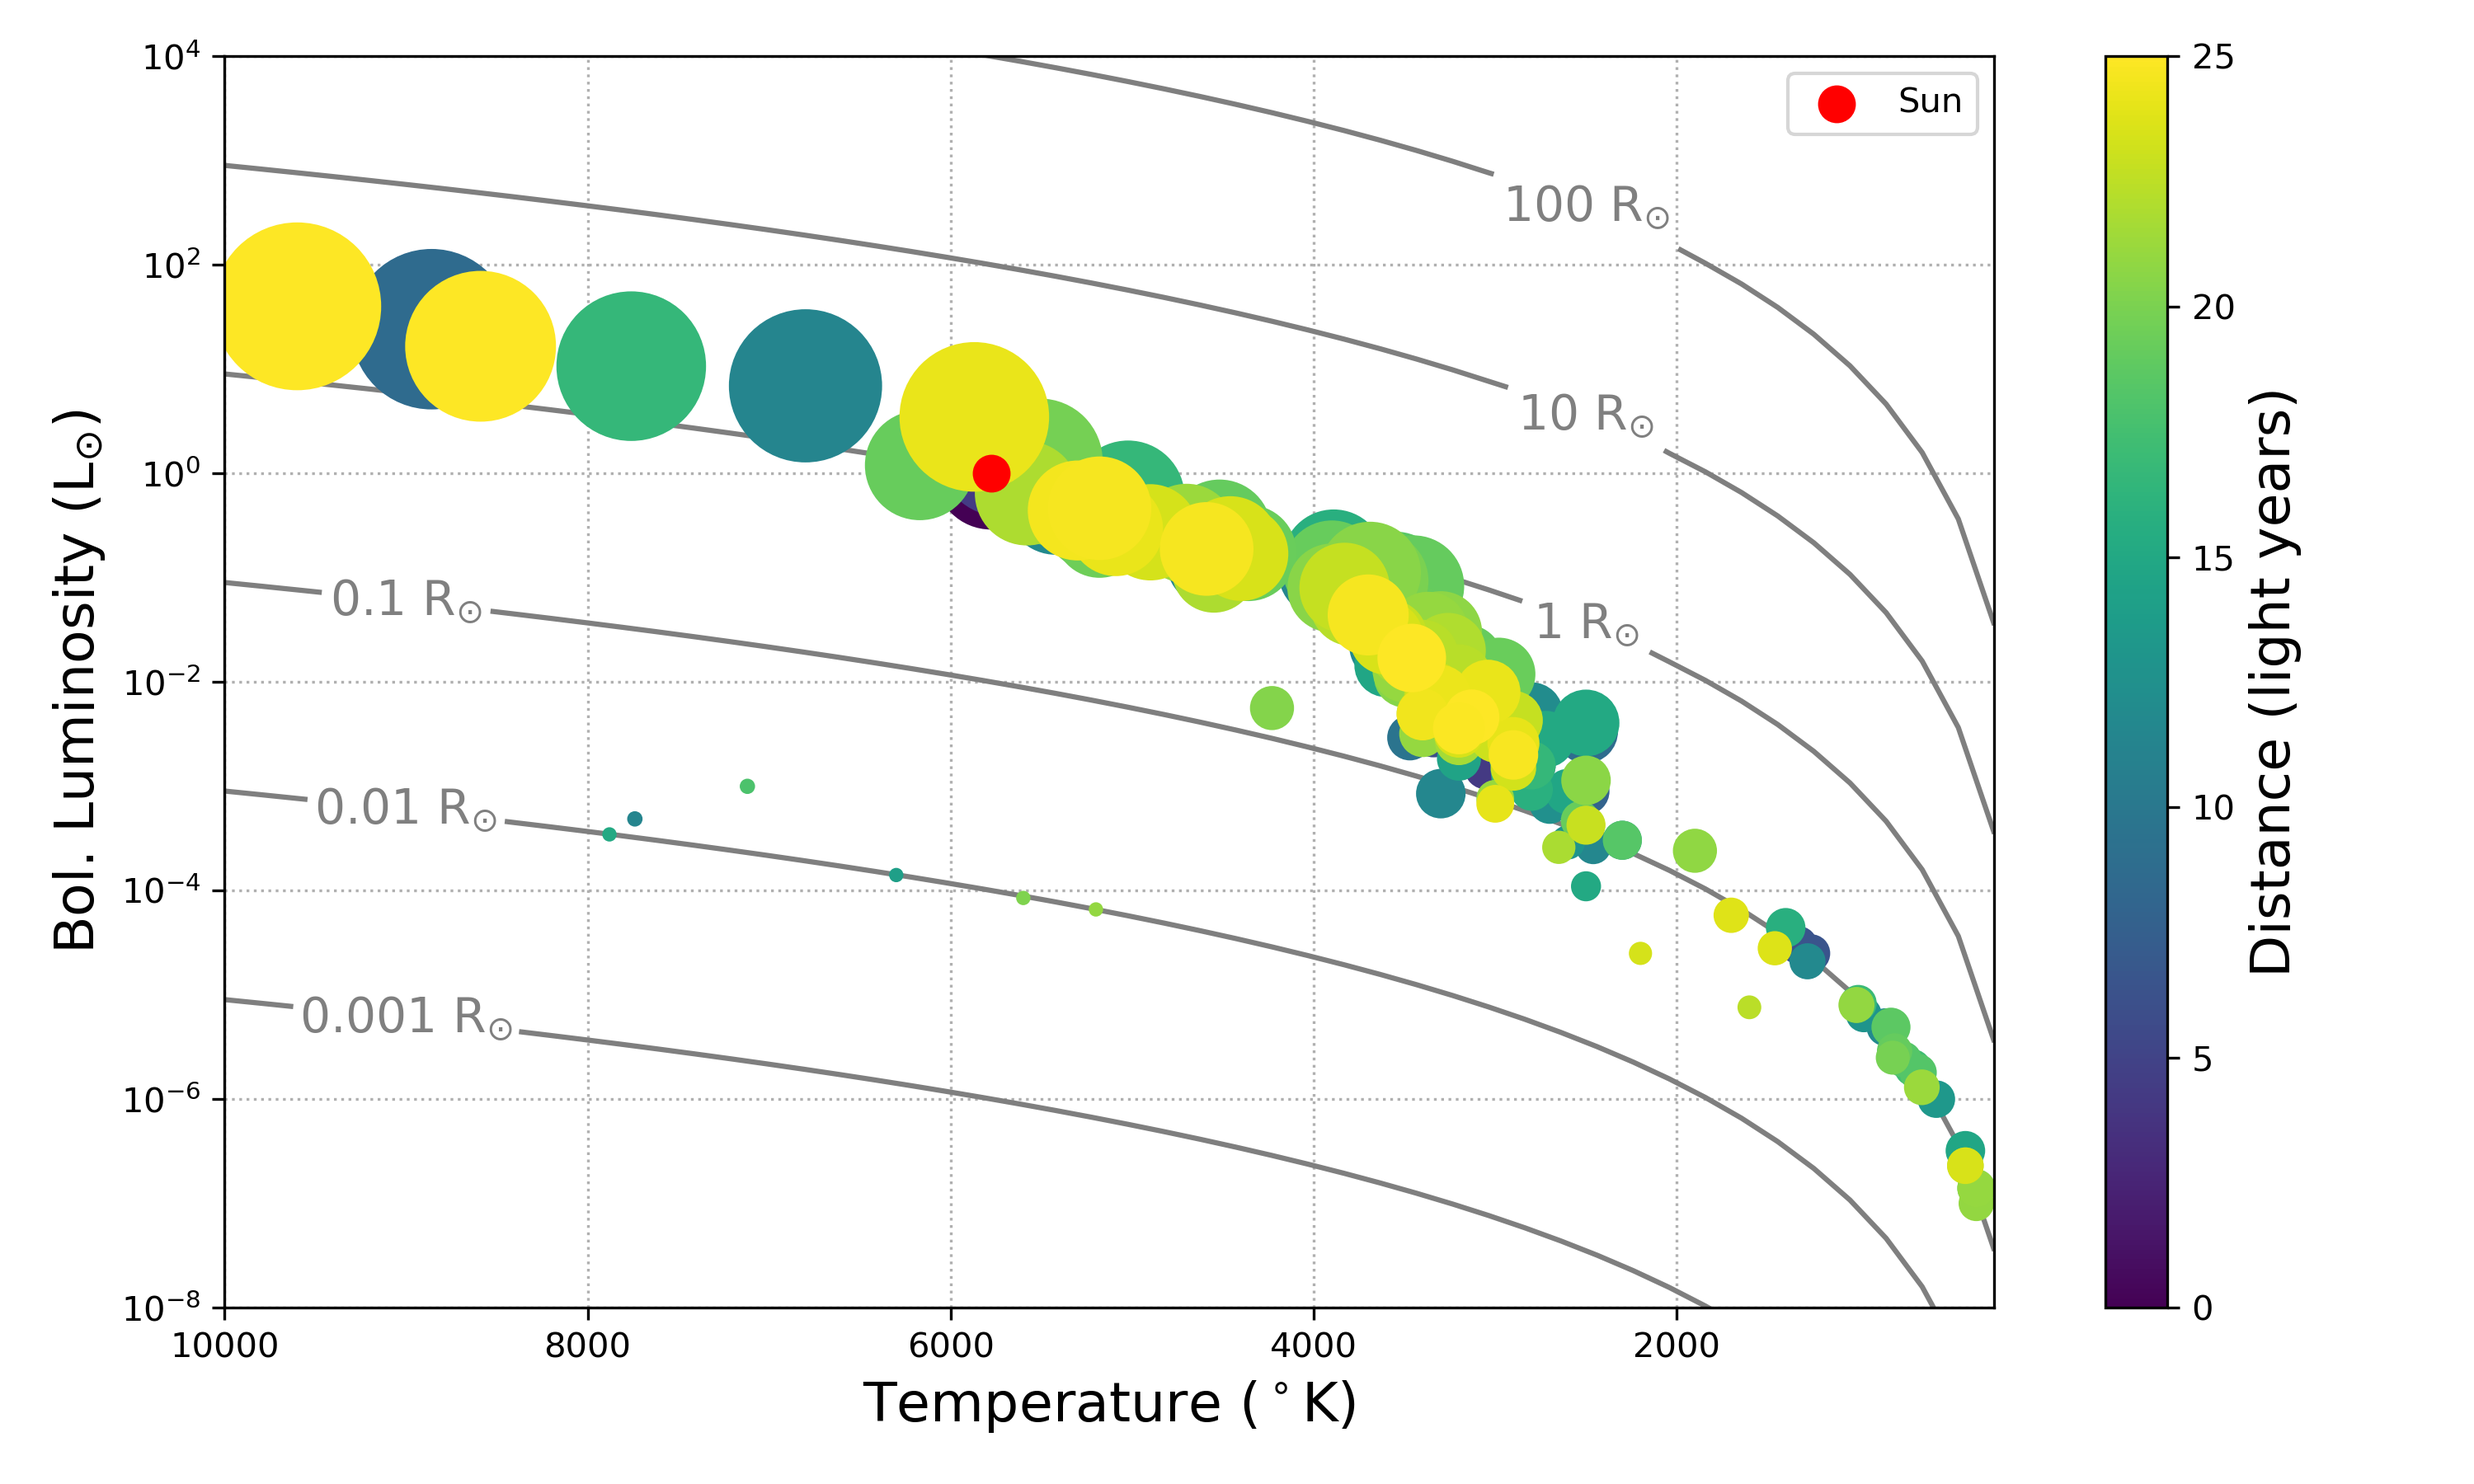
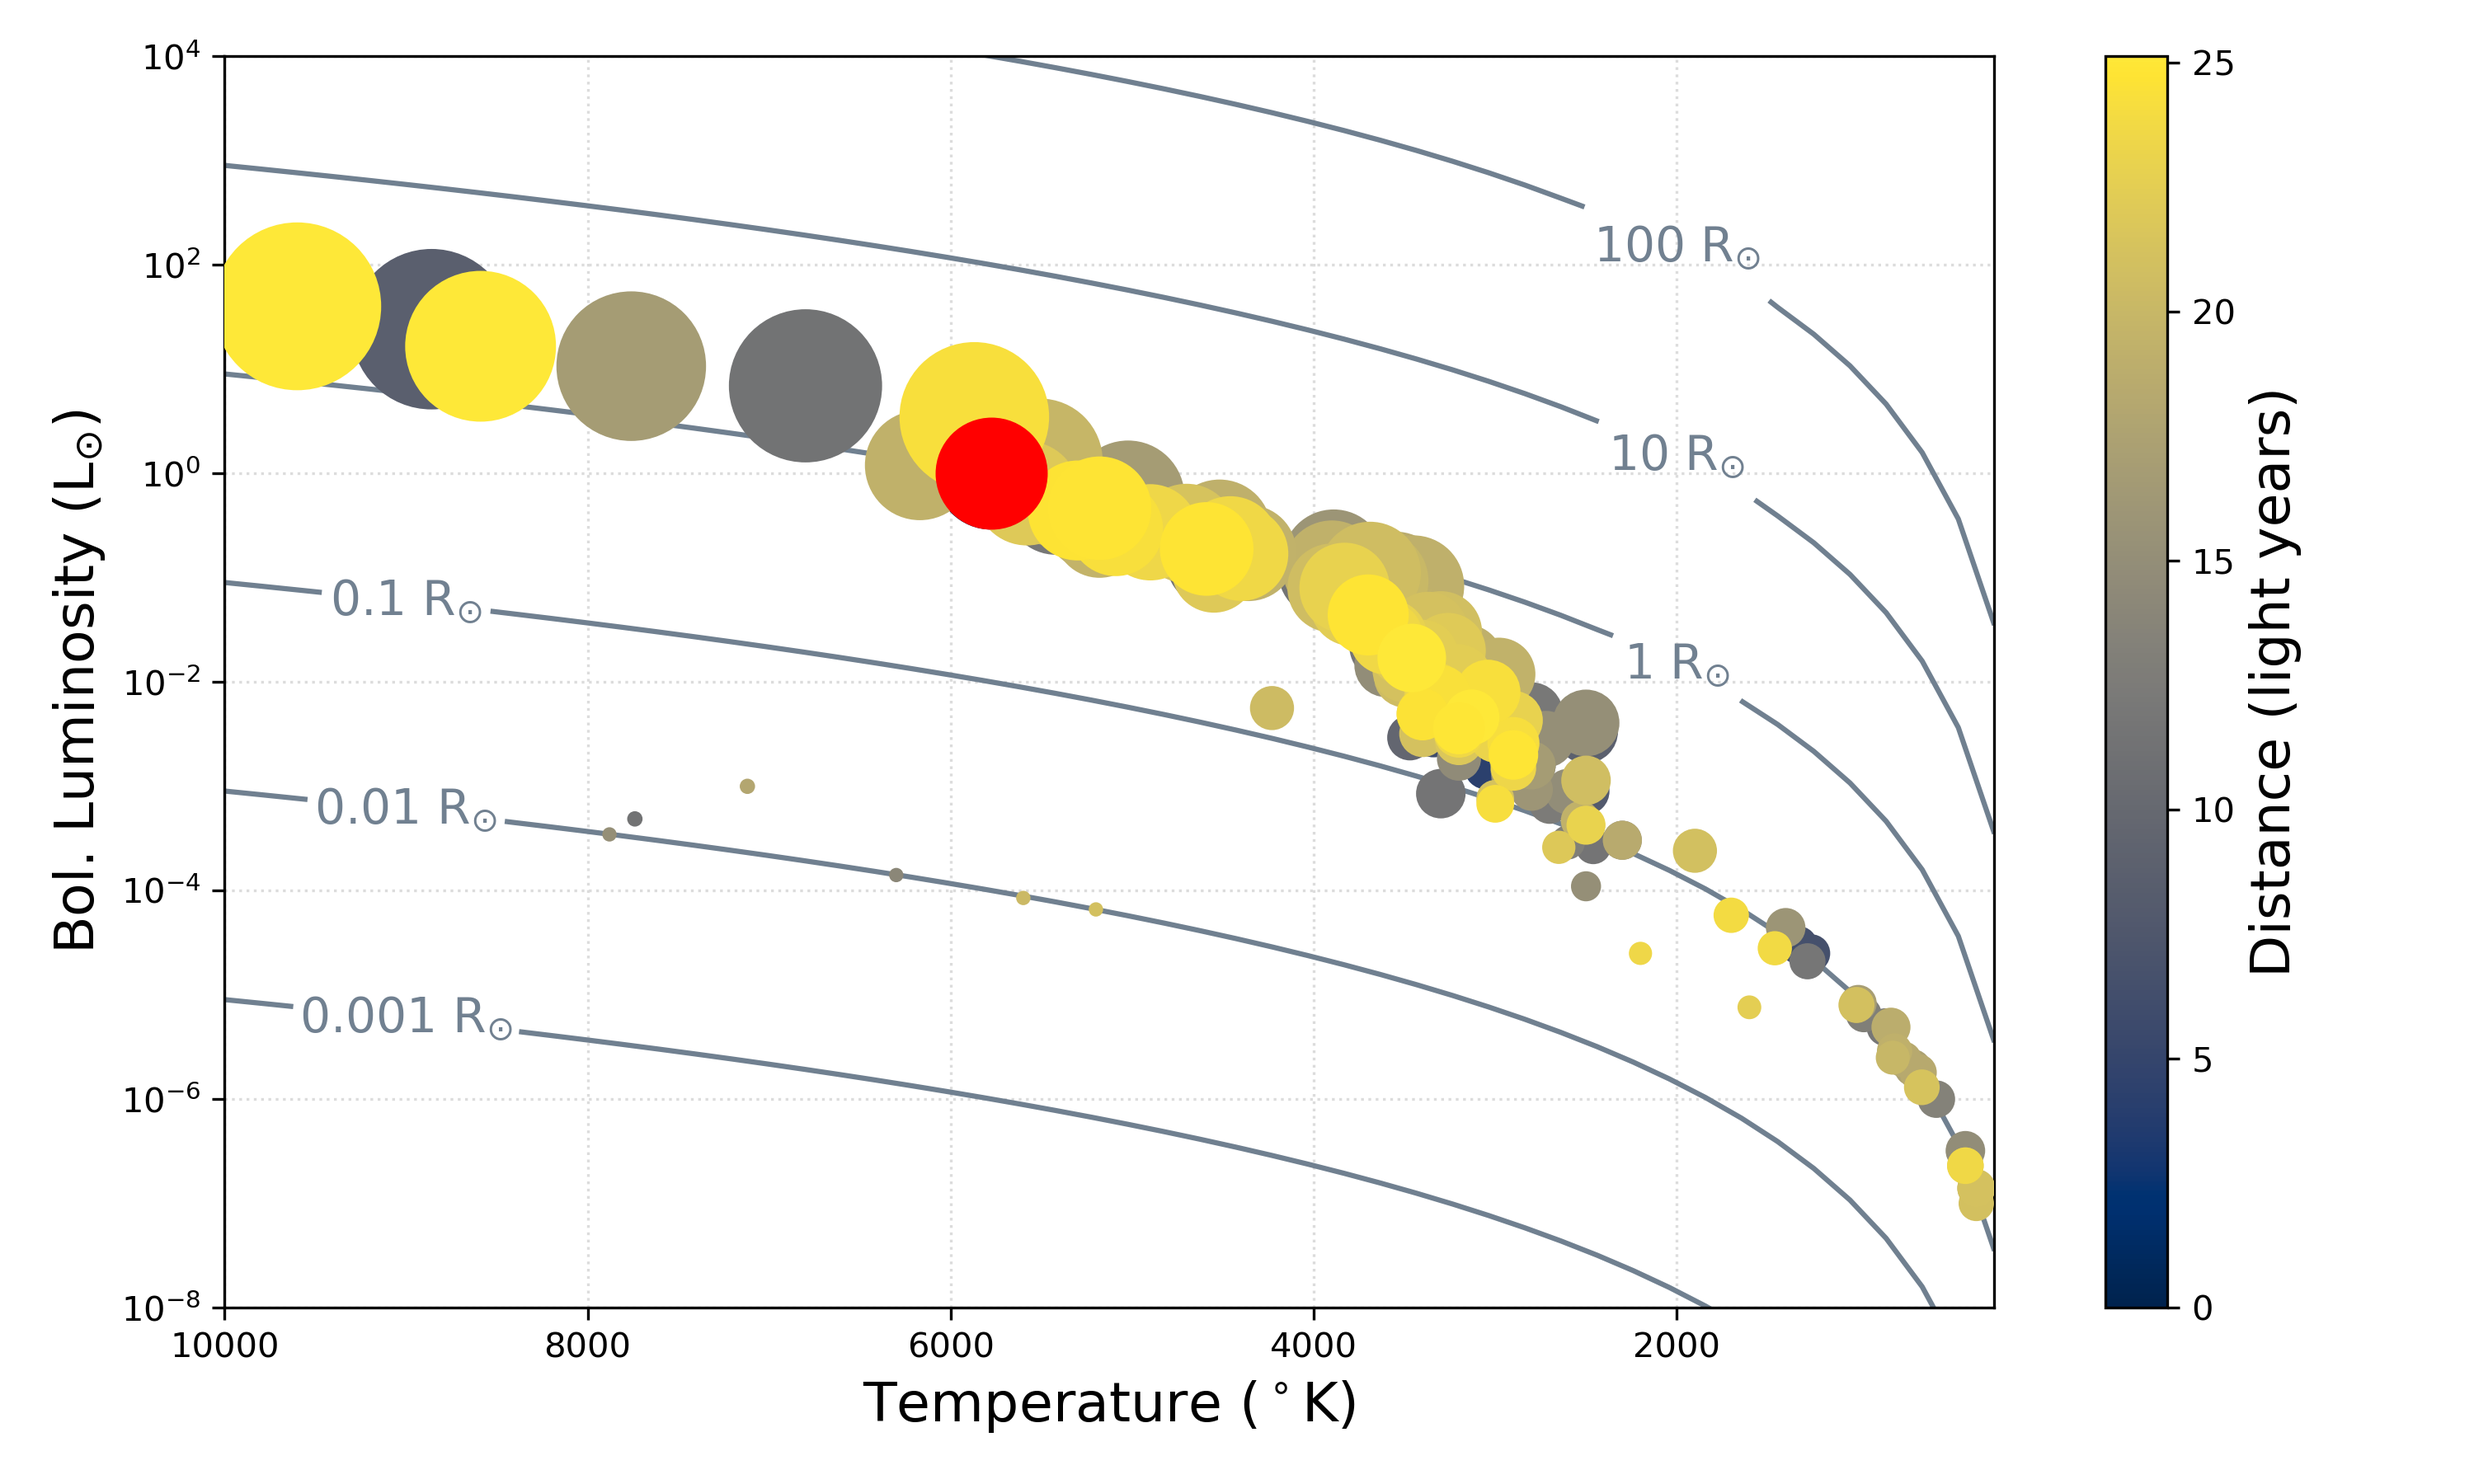
chnage to cividis

diff --git a/nearest_stars.py b/nearest_stars.py
@@ -34,26 +34,28 @@ L = (coef * pow(R, 2) * pow(T, 4)).to('Lsun')
 
 # Plot Temperature-Luminosity Relation lines
 plt.figure(figsize=(10, 6))
-CS = plt.contour(T, L, R, levels=r, colors='C7', linestyles='-')
-manual = [(9e3, 1e-5), (9e3, 1e-3), (9e3, 1e-1), (2.5e3, 1e-1), (2.5e3, 1e1),
-    (2.5e3, 1e3)]
+CS = plt.contour(T, L, R, levels=r, colors='slategrey', linestyles='-',
+    zorder=2)
+manual = [(9e3, 1e-5), (9e3, 1e-3), (9e3, 1e-1), (2e3, 1e-1), (2e3, 1e1),
+    (2e3, 1e3)]
 plt.clabel(CS, fmt = r'%.3g R$_{\odot}$', inline=True, manual=manual,
     fontsize=14)
 
 # Plot data and contour lines
-plt.scatter(df['Teff'], df['BOL-LUM'], s=1e3*df['RADIUS'], c=df['DIST'],
-	zorder=2, alpha=1)
-plt.scatter(5778, 1, s=100, c='red', label='Sun', zorder=3)
+cb = plt.scatter(df['Teff'], df['BOL-LUM'], s=1e3*df['RADIUS'], c=df['DIST'],
+	zorder=3, alpha=1, cmap='cividis')
+plt.scatter(5778, 1, s=1e3, c='red', label='Sun', zorder=4)
 plt.xlabel(r'Temperature ($^\circ$K)', size=16)
 plt.ylabel(r'Bol. Luminosity (L$_{\odot}$)', size=16)
 
+# Annotations
+
 # Plot options
-plt.grid(zorder=3, ls=':')
-plt.legend()
+plt.grid(zorder=1, ls=':', color='gainsboro')
 plt.xlim(1e4, 250)
 plt.ylim(1e-8, 1e4)
 plt.yscale('log')
-plt.colorbar().set_label(label='Distance (light years)', size=16)
+plt.colorbar(cb).set_label(label='Distance (light years)', size=16)
 plt.clim(df.DIST.min(), 25)
 plt.tight_layout()
 plt.savefig('nearby-stars.png', dpi=300)
